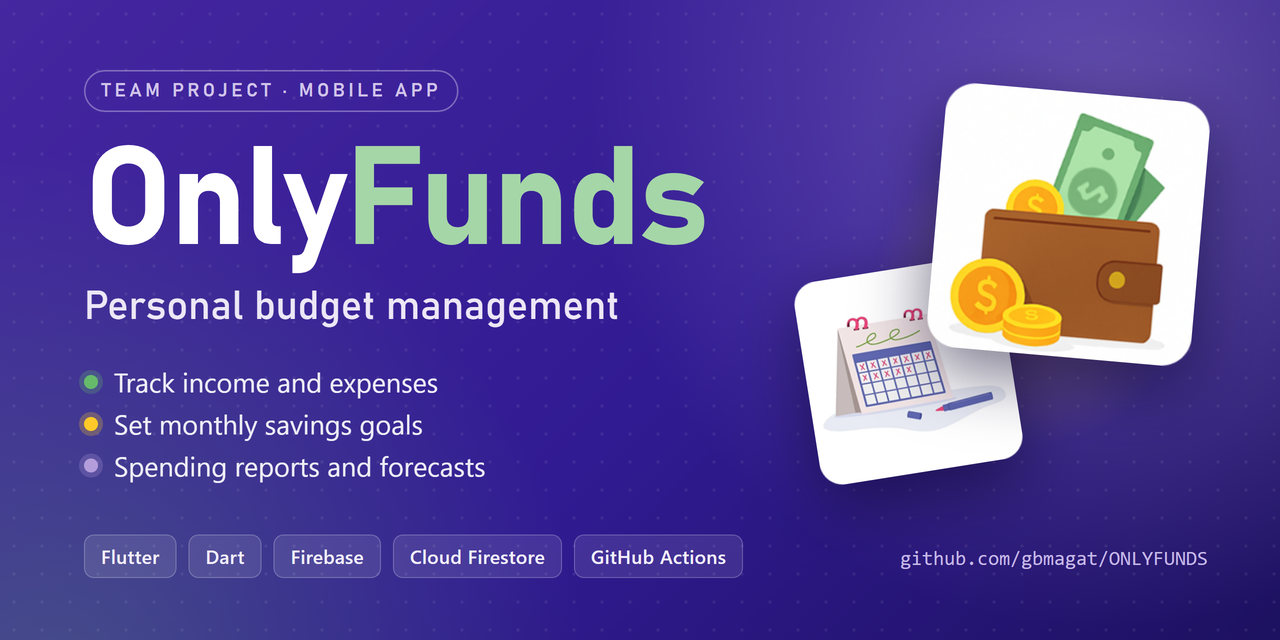
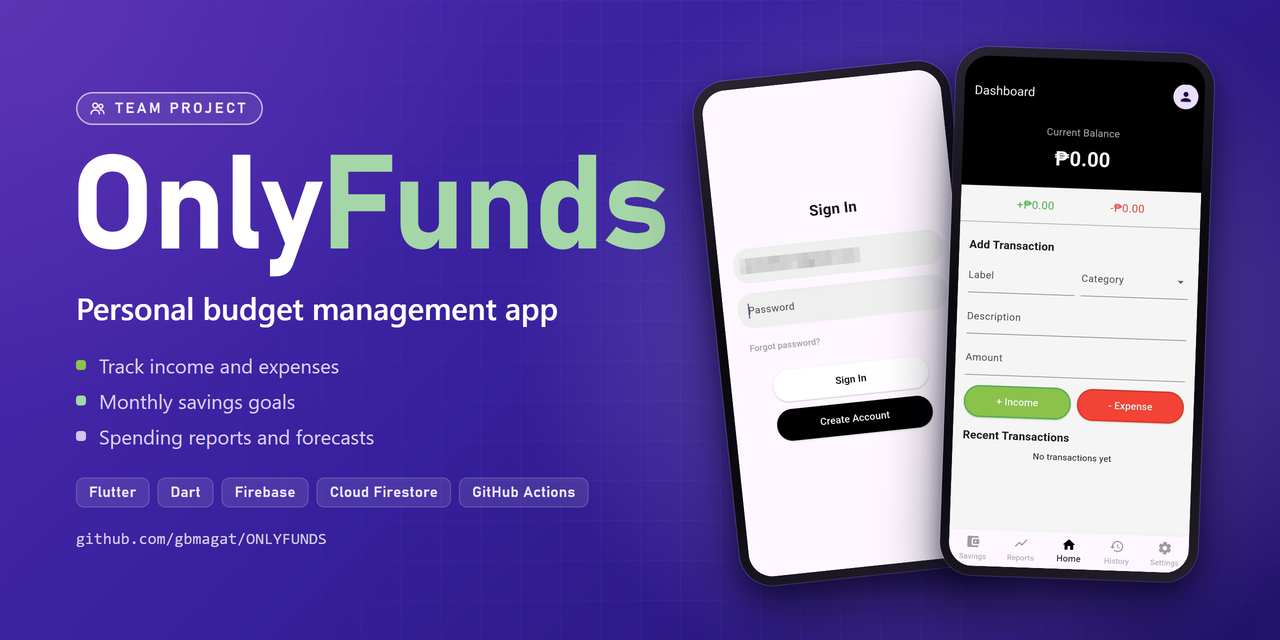
docs: show real app screenshots in the cover image
Replace the illustrated cover with one built from the app's real Sign
In and Dashboard screens, each in a plain phone frame next to the title,
tagline, features, and tech stack. The screenshots were only cropped
(phone status bar and gesture strip removed), scaled, and framed. The
email address on the Sign In screen is pixelated because it belongs to
a real person. The README alt text now mentions the screens.

diff --git a/README.md b/README.md
@@ -2,7 +2,7 @@
 
 [![CI](https://github.com/gbmagat/ONLYFUNDS/actions/workflows/ci.yml/badge.svg)](https://github.com/gbmagat/ONLYFUNDS/actions/workflows/ci.yml)
 
-![OnlyFunds, a personal budget management app built with Flutter and Firebase: track income and expenses, set monthly savings goals, and see spending reports and forecasts](docs/images/onlyfunds-cover.png)
+![OnlyFunds, a personal budget management app built with Flutter and Firebase, shown with its Sign In and Dashboard screens](docs/images/onlyfunds-cover.png)
 
 A Flutter mobile app for recording daily income and expenses, setting monthly savings goals, and reviewing spending patterns. OnlyFunds brings transaction tracking, Firebase-backed accounts, and experimental expense forecasting into one personal budgeting workflow.
 
